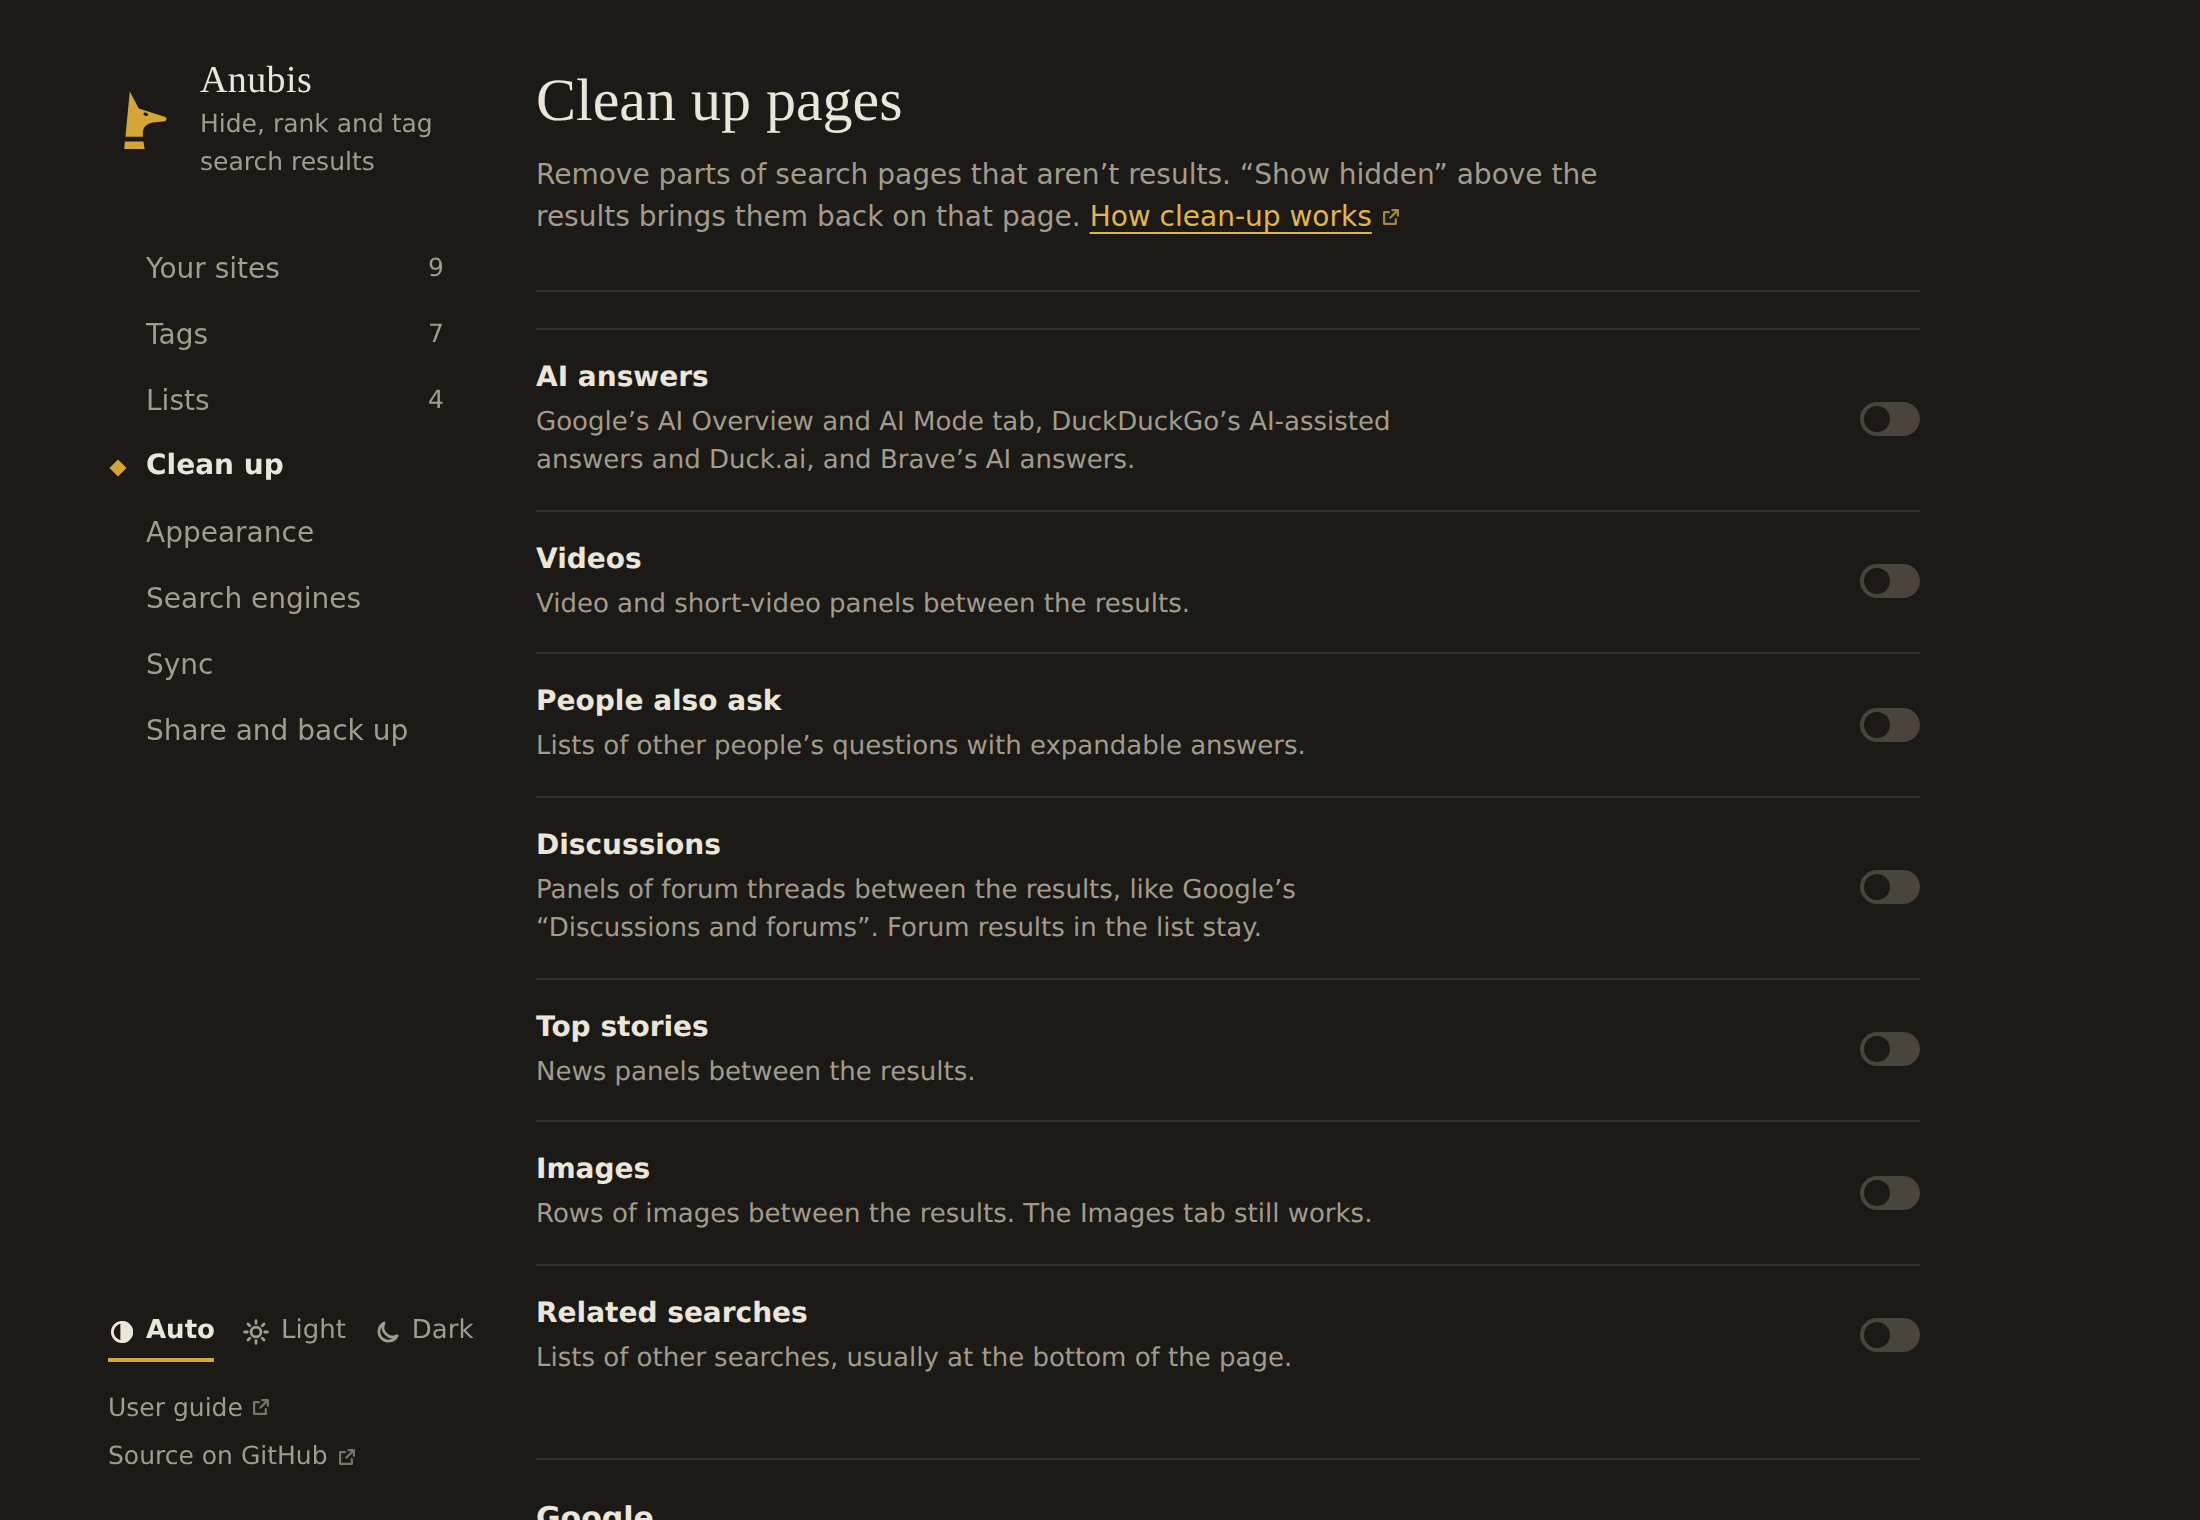
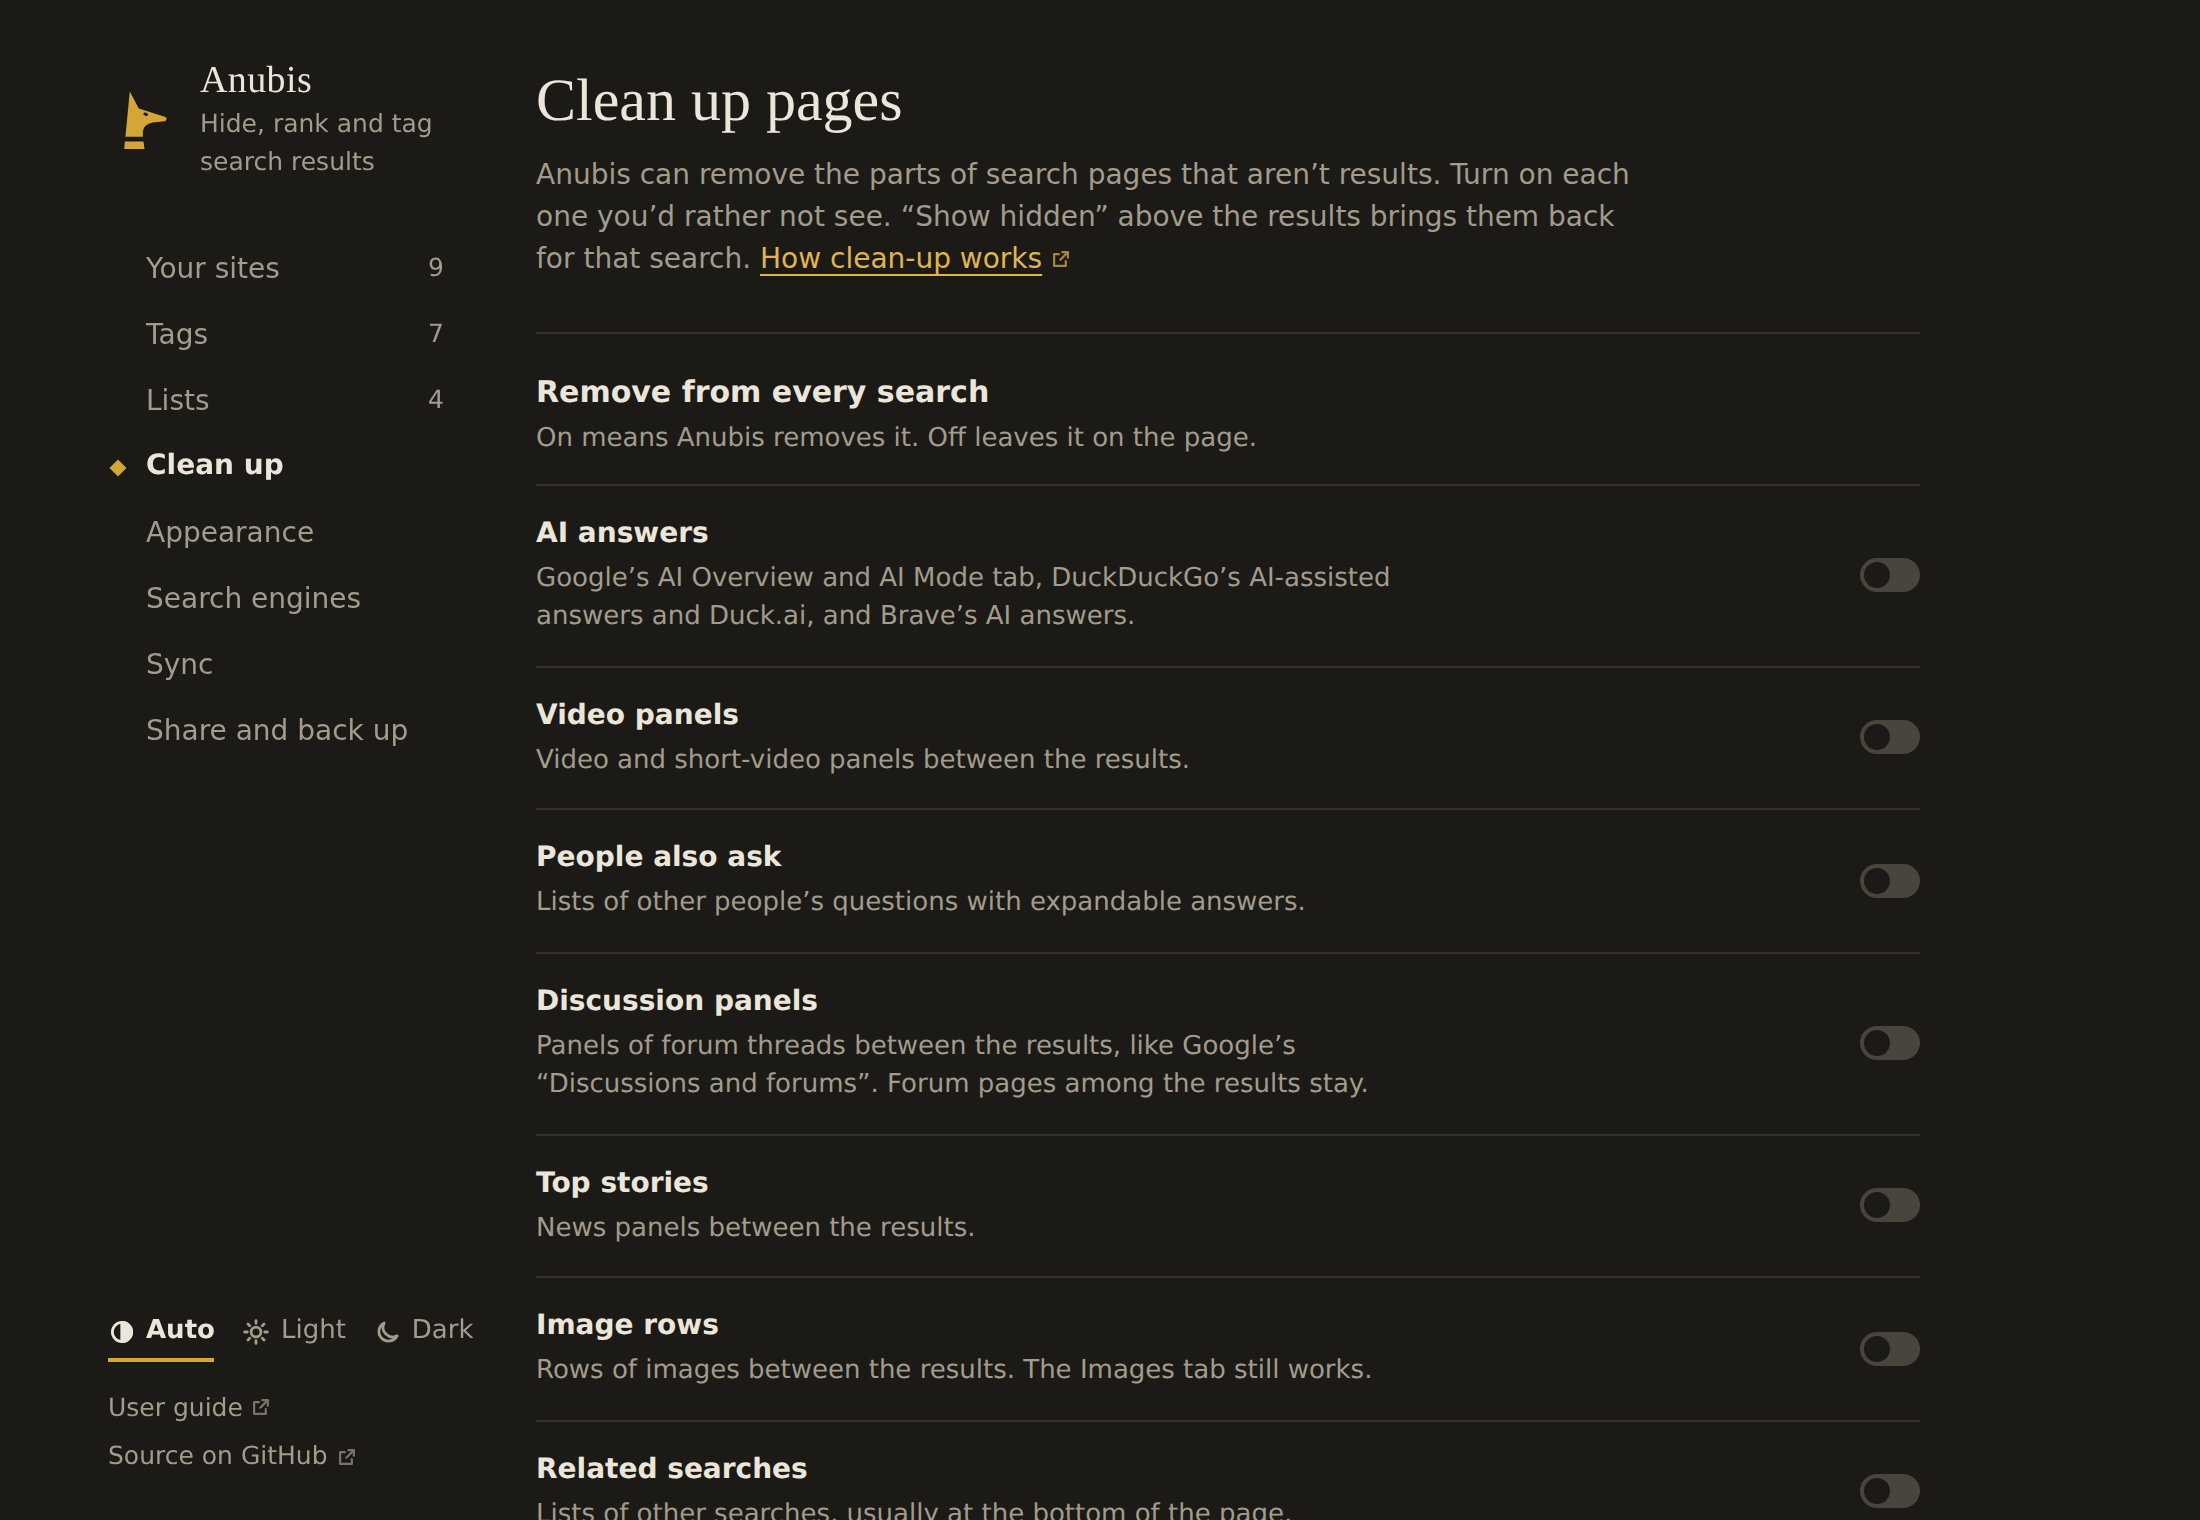
Make clean-up settings say that a switch that's on removes that part of the page

diff --git a/entrypoints/options/cleanup.ts b/entrypoints/options/cleanup.ts
@@ -11,19 +11,24 @@ export async function renderCleanup(): Promise<HTMLElement> {
   return h(
     'div',
     null,
-    pageTitle('Clean up pages', 'Remove parts of search pages that aren’t results. “Show hidden” above the results brings them back on that page.'),
+    pageTitle(
+      'Clean up pages',
+      'Anubis can remove the parts of search pages that aren’t results. Turn on each one you’d rather not see. “Show hidden” above the results brings them back for that search.',
+    ),
     h(
       'div',
       { class: 'panel' },
+      h('h3', null, 'Remove from every search'),
+      h('p', { class: 'muted' }, 'On means Anubis removes it. Off leaves it on the page.'),
       CLEANUP.map((def) => switchRow(def.label, def.hint, settings.cleanup[def.id], (on) => void setKind(def.id, on))),
     ),
     h(
       'div',
       { class: 'panel' },
-      h('h3', null, 'Google'),
+      h('h3', null, 'On Google'),
       switchRow(
         'Always open the Web tab',
-        'Google’s own view of plain web links. It never has an AI Overview, videos or other panels, even ones Anubis doesn’t recognise. Choose All above the results to leave it for one search.',
+        'Sends every Google search to its Web tab: plain links, with no AI Overview, videos or other panels, even ones Anubis doesn’t recognise. To leave it for one search, choose All above the results.',
         settings.googleWebTab,
         (googleWebTab) => void updateSettings({ googleWebTab }),
       ),

diff --git a/utils/cleanup.ts b/utils/cleanup.ts
@@ -54,7 +54,7 @@ export const CLEANUP: CleanupDef[] = [
   },
   {
     id: 'videos',
-    label: 'Videos',
+    label: 'Video panels',
     hint: 'Video and short-video panels between the results.',
     headings: ['Videos', 'Short videos', 'Vidéos', 'Vidéos courtes', 'Kurze Videos', 'Vídeos', 'Vídeos cortos', 'Video', 'Video brevi'],
   },
@@ -78,8 +78,8 @@ export const CLEANUP: CleanupDef[] = [
   },
   {
     id: 'discussions',
-    label: 'Discussions',
-    hint: 'Panels of forum threads between the results, like Google’s “Discussions and forums”. Forum results in the list stay.',
+    label: 'Discussion panels',
+    hint: 'Panels of forum threads between the results, like Google’s “Discussions and forums”. Forum pages among the results stay.',
     headings: ['Discussions and forums', 'Discussions'],
   },
   {
@@ -90,7 +90,7 @@ export const CLEANUP: CleanupDef[] = [
   },
   {
     id: 'images',
-    label: 'Images',
+    label: 'Image rows',
     hint: 'Rows of images between the results. The Images tab still works.',
     headings: ['Images', 'Bilder', 'Imágenes', 'Imagens', 'Immagini', 'Afbeeldingen'],
     prefixes: ['Images for ', 'Images de ', 'Bilder zu ', 'Imágenes de '],

diff --git a/docs/experiments.md b/docs/experiments.md
@@ -282,6 +282,7 @@ Subscribe on the lists directory, and links list authors share, lead to the guid
 - **The cartouche's bar (2026-09-29):** the name sat in a gold oval with a short bar 3px off its right end, the tie at the end of a real cartouche. At this size it read as a text cursor, and the project owner asked what it was. Tried touching the oval at full height, and taller than the oval: both still read as a cursor or a stray line. Dropped; the oval alone carries the motif.
 - **The cartouche's name was off centre (2026-09-29):** a select is as wide as its longest option, so `wikipedia.org` sat left in a box sized for `en.wikipedia.org`, with a gap before the caret. The name is now text with the caret after it, and the native select lies unseen over the whole oval (it still opens the browser's own list and works from the keyboard; the oval shows its focus ring through `:has(select:focus-visible)`). With one choice there's no select at all, where before a disabled one greyed the name. Choosing another part of the site keeps focus on the picker; before, it jumped to Hide. The `popover` e2e part switches `developer.mozilla.org` to `mozilla.org` from the keyboard.
 - **The popup changes with the tab (2026-09-29):** the popup showed the same four sections everywhere, and gave the most room (and the only gold button) to typing a domain by hand, the rarest thing people open it for. It had a dropdown for the ranking where the result menu has a choice row, three unlabelled theme icons next to the on/off switch, and × to forget a site with no undo. Three layouts were drawn: a list of every site Anubis acted on in the page's results, with the reason (needs the content script to report per-site verdicts); one "Find or add a site" field at the top; and a popup that changes with the tab. The project owner picked the last. On a search page it shows the summary, its buttons and the tags to show only (the `set-filter` message the summary already used); on another site, the result menu's cartouche, balance, rankings, hint and tags, worked out in the popup with `evaluate()` on the tab's address; elsewhere, Add a site opens by itself, with Hide, Lower, Raise and Pin as buttons instead of a dropdown and an Add button. The theme moved to Settings only; forgetting a site moved there too, and the footer's list count opens Settings → Lists. The balance moved to `utils/balance.ts` so both draw the same one. Mockups of the three are not in the repository.
+- **Clean up settings read the wrong way round (2026-09-29):** the page listed nouns ("AI answers", "Videos") each with a switch, all off, so "AI answers: off" could read as AI answers already turned off. The project owner found it unclear. The list now sits under "Remove from every search" with one line saying on removes and off leaves it, the intro says to turn on what you'd rather not see, and labels that only named a topic say which part of the page goes ("Video panels", "Discussion panels", "Image rows"); "Discussions" also clashed with the Discussions tag. The Google switch's heading is "On Google" and its hint starts with what it does. Not tried: "Remove …" on every label, which repeated the verb seven times.
 
 ## Undo (2026-09-29)
 

diff --git a/docs/guide/clean-up.md b/docs/guide/clean-up.md
@@ -1,17 +1,17 @@
 # Cleaning up pages
 
-Search pages carry a lot that isn't results: AI answers, video panels, "People also ask". **Settings → Clean up** removes them on every search.
+Search pages carry a lot that isn't results: AI answers, video panels, "People also ask". **Settings → Clean up** removes the ones you turn on, on every search: a switch that's on means Anubis removes that part, and off leaves it on the page.
 
 ![Settings, Clean up](../img/options-cleanup.png)
 
 | Switch | What it removes |
 | --- | --- |
 | **AI answers** | Google's AI Overview and its AI Mode tab, DuckDuckGo's AI-assisted answers and its Duck.ai tab and buttons, Brave's AI answers. |
-| **Videos** | Video and short-video panels between the results. |
+| **Video panels** | Video and short-video panels between the results. |
 | **People also ask** | Lists of other people's questions with expandable answers. |
-| **Discussions** | Panels of forum threads between the results, like Google's "Discussions and forums" and Brave's "Discussions". Forum results in the list itself stay. |
+| **Discussion panels** | Panels of forum threads between the results, like Google's "Discussions and forums" and Brave's "Discussions". Forum pages among the results stay. |
 | **Top stories** | News panels between the results. |
-| **Images** | Rows of images between the results. The Images tab still works. |
+| **Image rows** | Rows of images between the results. The Images tab still works. |
 | **Related searches** | Lists of other searches, usually at the bottom of the page, and the "People also search for" box Bing and Google add under a result you went to and came back from. The links to later pages stay. |
 
 All of them start off.
